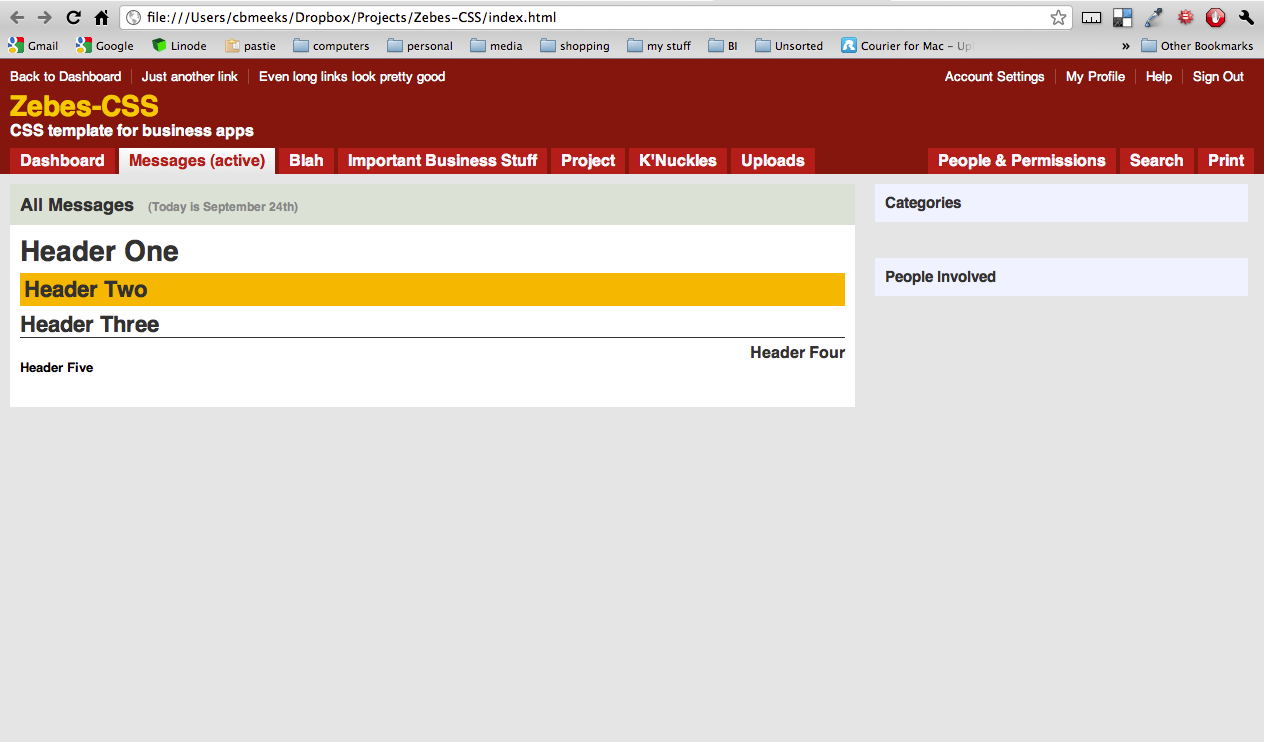
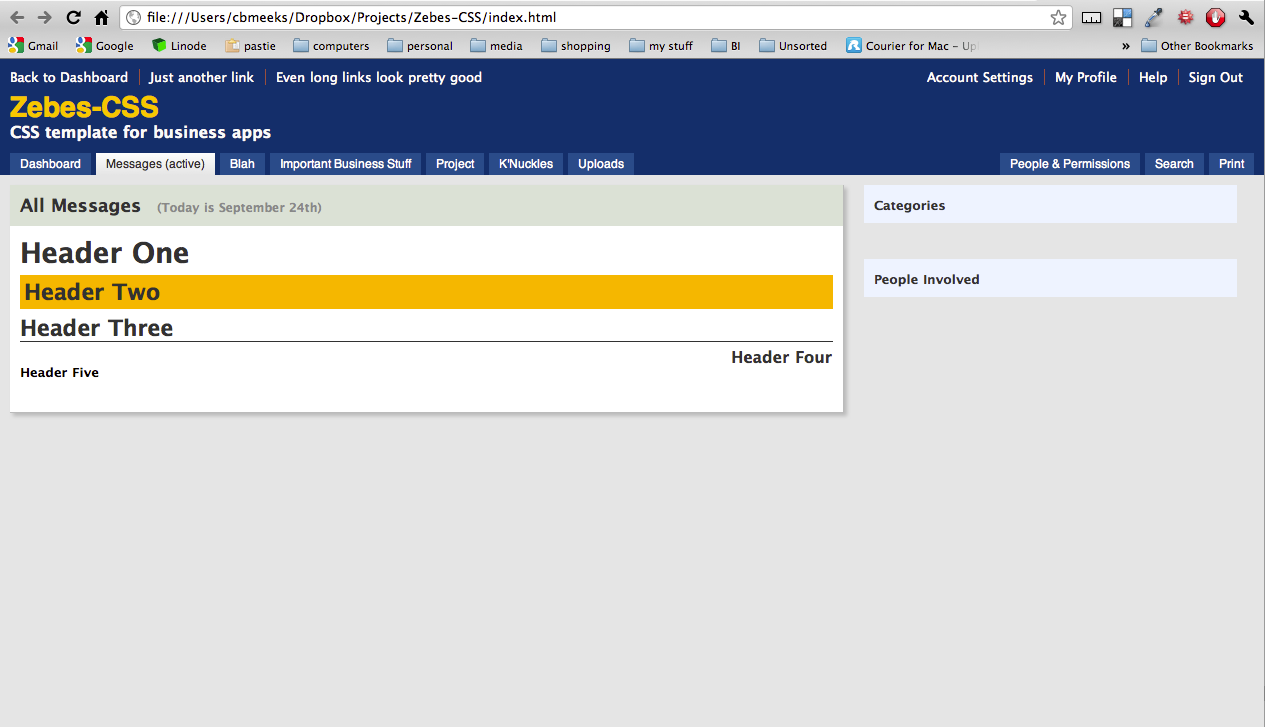
More style tweaks.  New screenshot

Changed region(s): [[0.0, 0.0, 1.0, 0.575]]

diff --git a/css/header.css b/css/header.css
@@ -2,7 +2,7 @@
 	Main Header
 ========================================================= */
 #header {
-	background: #8C1E11;
+	background: #036;
 	margin: 0;
 	padding: 10px 10px 0 10px;
 }
@@ -62,17 +62,21 @@
 	float: right;
 }
 
-/* Left tabs */
+/* ======================================================
+	Left Tabs
+========================================================= */
 #header .tabs {
 	float: left;
 	padding: 12px 0 4px 0;
 }
 
 #header .tabs a {
-	background: #C0281A;
-	color: #FEF8FC;
+	background: #1A4F85;
+	color: #FFF;
   font-family: Lucida, sans-serif;
-	font-weight: bold;
+	font-size: 12px;
+	font-weight: normal;
+	line-height: 12px;
 	margin: 0;
 	padding: 4px 10px 4px 10px;
 	text-decoration: none;
@@ -83,15 +87,20 @@
 	filter: progid:DXImageTransform.Microsoft.gradient(startColorstr='#fdfdfd', endColorstr='#e5e5e5'); /* IE */
 	background: -webkit-gradient(linear, left top, left bottom, from(#fdfdfd), to(#e5e5e5)); /* webkit */
 	background: -moz-linear-gradient(top,  #fdfdfd,  #e5e5e5); /* firefox 3.6+ */
-	color: #C0281A;
+	color: #333;
 }
 
-#header .tabs a:hover {
+#header .tabs a.active:hover {
 	background: #e5e5e5;
 	filter: progid:DXImageTransform.Microsoft.gradient(startColorstr='#fdfdfd', endColorstr='#e5e5e5'); /* IE */
 	background: -webkit-gradient(linear, left top, left bottom, from(#fdfdfd), to(#e5e5e5)); /* webkit */
 	background: -moz-linear-gradient(top,  #fdfdfd,  #e5e5e5); /* firefox 3.6+ */
-	color: #C0281A;
+	color: #333;
+}
+
+#header .tabs a:hover {
+	background: #1D64AD;
+	color: #FFF;
 }
 
 

diff --git a/css/application.css b/css/application.css
@@ -1,6 +1,6 @@
 body {
 	background: #E5E5E5;
-	font-family: helvetica, arial, sans-serif;
+	font-family: 'Lucida Grande', verdana, arial, helvetica, sans-serif;
 	margin: 0;
 	padding: 0;
 }
